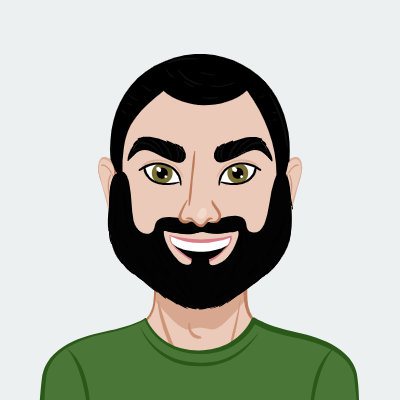
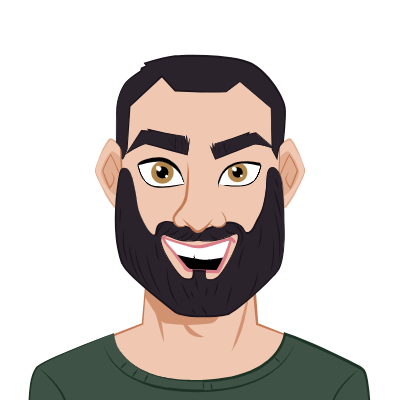
fixed css for about us

diff --git a/client/src/components/TeamMember/index.js b/client/src/components/TeamMember/index.js
@@ -8,6 +8,8 @@ import Avatar from '@mui/material/Avatar';
 import IconButton from '@mui/material/IconButton';
 import Typography from '@mui/material/Typography';
 import ExpandMoreIcon from '@mui/icons-material/ExpandMore';
+import Grid from '@mui/material/Grid';
+import '../../pages/styles/style.css';
 
 export default function TeamMember(props) {
   const [expanded, setExpanded] = React.useState(false);
@@ -16,21 +18,32 @@ export default function TeamMember(props) {
     setExpanded(!expanded);
   };
 
+  
   return (
+    <Grid
+  container
+  spacing={0}
+  direction="column"
+  alignItems="center"
+  justifyContent="center"
+  >
+  <Grid item large={1}>
     <Card sx={{ maxWidth: 500}}>
-      <CardHeader
+      <CardHeader 
         avatar={
           <Avatar
-            alt="User Avatar"
+          alt="User Avatar"
             src={props.avatarSrc} // Use the prop for the avatar source
-            sx={{ width: 56, height: 56 }}
+            sx={{ width: 70, height: 70 }}
           />
         }
+        
         title={props.title} // Use the prop for the title
-      />
+        
+        />
       <CardContent>
         <Typography variant="body2" color="text.secondary">
-          {props.description} {/* Use the prop for the description */}
+        {props.description} {/* Use the prop for the description */}
         </Typography>
       </CardContent>
       <CardActions disableSpacing>
@@ -38,7 +51,7 @@ export default function TeamMember(props) {
           onClick={handleExpandClick}
           aria-expanded={expanded}
           aria-label="show more"
-        >
+          >
           <ExpandMoreIcon />
         </IconButton>
       </CardActions>
@@ -51,5 +64,7 @@ export default function TeamMember(props) {
         </CardContent>
       </Collapse>
     </Card>
+  </Grid>
+ </Grid>
   );
 }

diff --git a/client/src/pages/About.js b/client/src/pages/About.js
@@ -21,21 +21,21 @@ export default function About() {
       gitHub: 'https://www.github.com'
     },
     {
-      avatarSrc: '/images/gravatar.png',
+      avatarSrc: '/images/avatar-annie.png',
       title: 'Annie McElroy',
       description: 'This impressive UI developer was the artiste behind our app.',
       linkedIn: 'https://www.linkedin.com/in/dahlia-guido/',
       gitHub: 'https://www.github.com'
     },
     {
-      avatarSrc: '/images/gravatar.png',
+      avatarSrc: '/images/avatar-abe.png',
       title: 'Abe Omaits',
       description: 'This impressive UI developer was the artiste behind our app.',
       linkedIn: 'https://www.linkedin.com/in/dahlia-guido/',
       gitHub: 'https://www.github.com'
     },
     {
-      avatarSrc: '/images/gravatar.png',
+      avatarSrc: '/images/kenny.png',
       title: 'Lekendrick McKeller',
       description: 'This impressive UI developer was the artiste behind our app.',
       linkedIn: 'https://www.linkedin.com/in/dahlia-guido/',
@@ -47,7 +47,7 @@ export default function About() {
 
   return (
     
-    <div>
+    <div className='pageFrame'>
       <BackMeUp />
       {cardData.map((data, index) => (
         <TeamMember key={index} {...data} />

diff --git a/client/src/pages/styles/style.css b/client/src/pages/styles/style.css
@@ -1,0 +1,13 @@
+/*team member title*/
+
+#root > div > div > div > div > div > div.MuiCardHeader-root.css-185gdzj-MuiCardHeader-root > div.MuiCardHeader-content.css-1qbkelo-MuiCardHeader-content > span {
+  font-family: Montserrat, sans-serif;
+  font-weight: 600;
+  font-size: x-large;
+}
+
+#root > div > div > div > div > div > div.MuiCardContent-root.css-46bh2p-MuiCardContent-root > p {
+  font-family: Montserrat, sans-serif;
+  font-weight: 500;
+  
+}

diff --git a/client/src/App.css b/client/src/App.css
@@ -113,7 +113,6 @@
   display: flex;
   justify-content: center;
   flex-direction: column;
-  justify-content: center;
   width: 80%;
   margin: auto;
   text-align: center;
